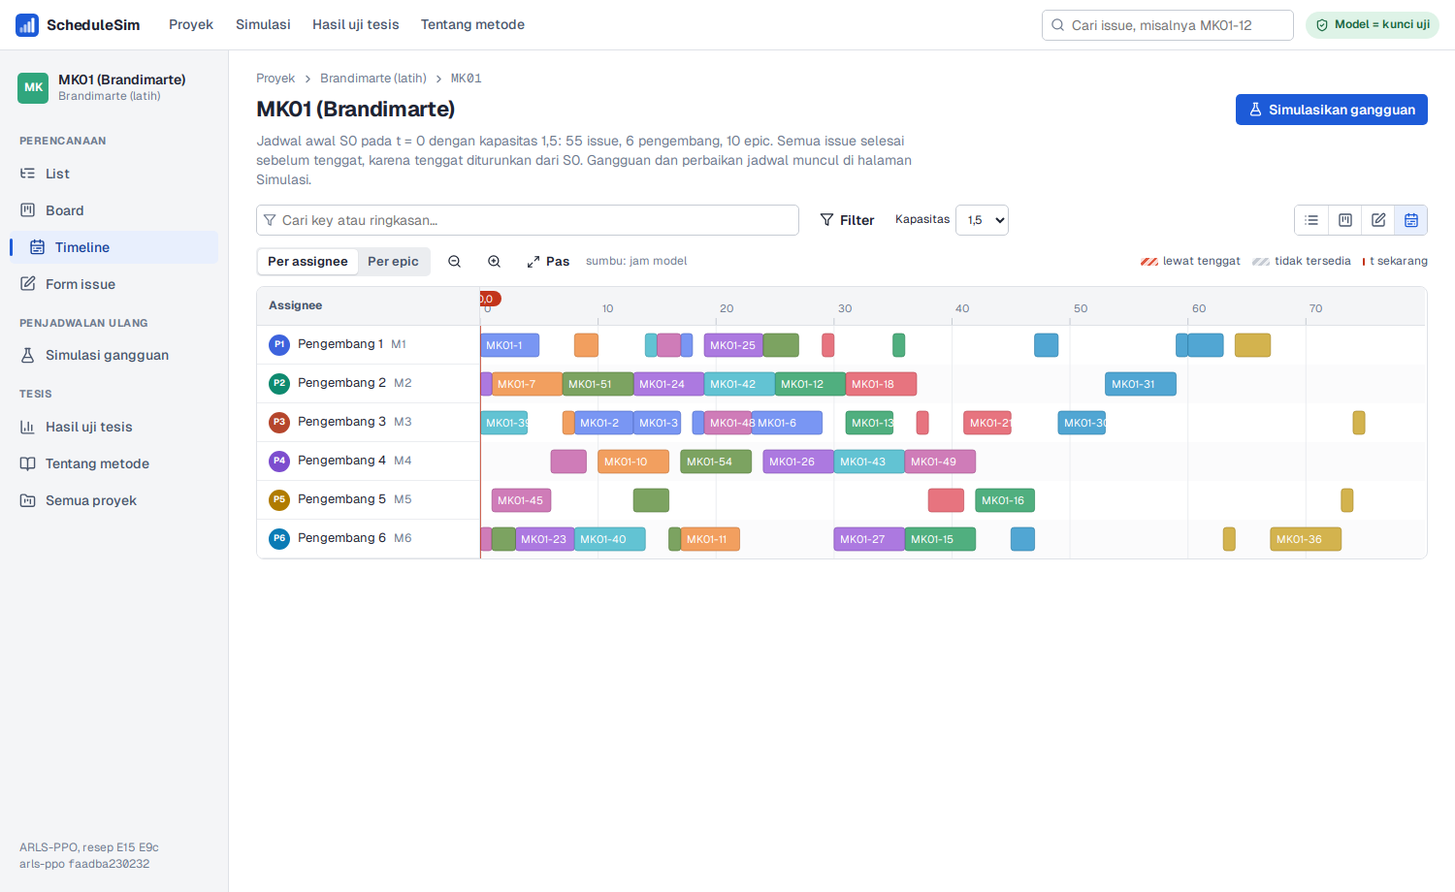
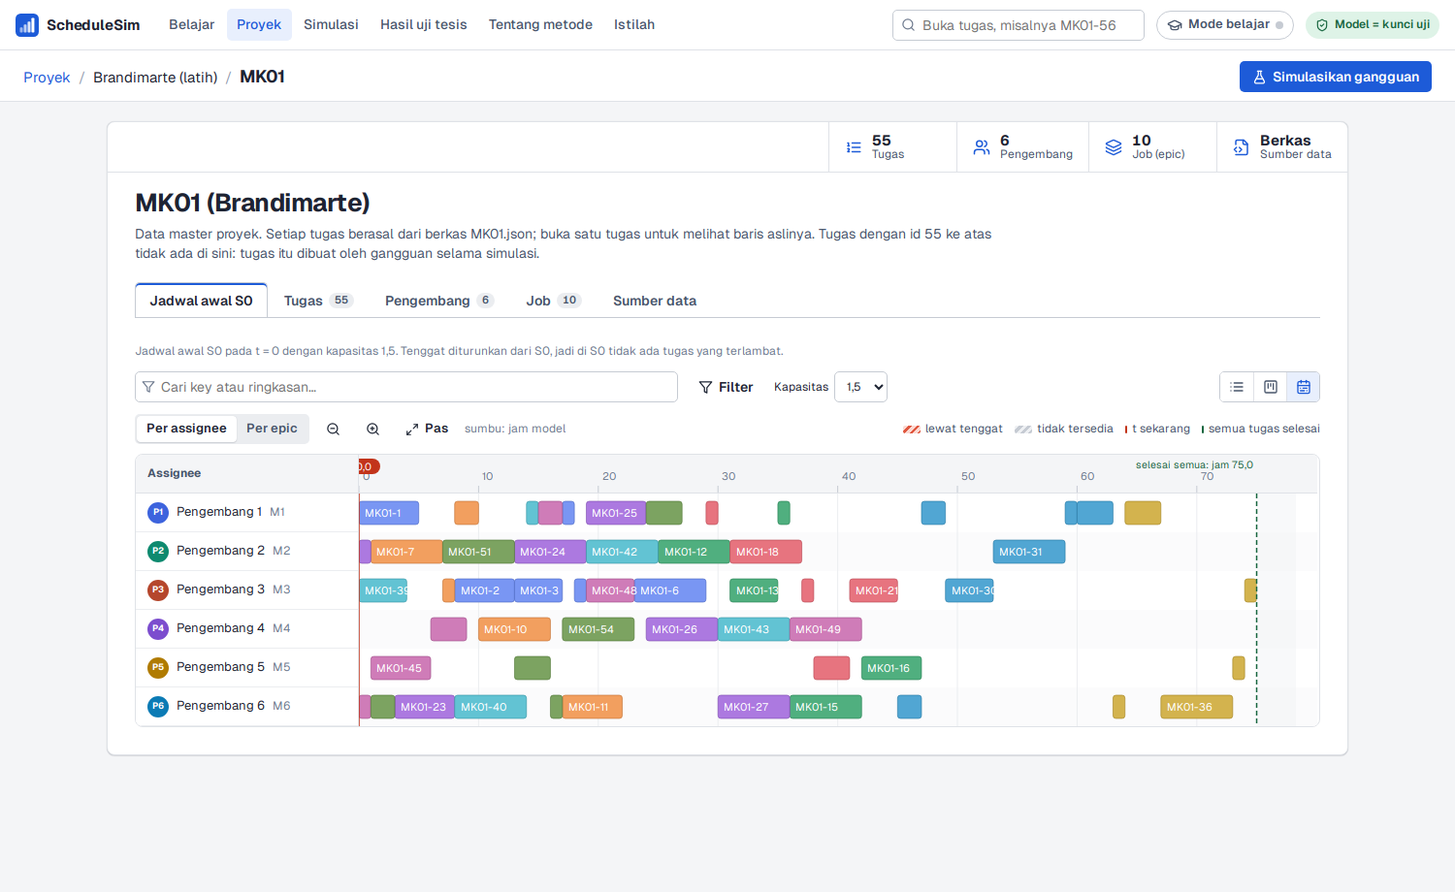
Seam F4 and the adapted end-to-end tests; README and screenshots for the new records
F4 (Playwright): a record URL reloads to the same record; the pager stops at event 16 and
leads to Akhir episode, whose J equals the API; the breadcrumb climbs back with the same
settings; MK01-56 opens as task id 55 made by a disruption of event 1; MK01-1 shows the
options of jobs[0][0] read from MK01.json by the test itself; the source of E lists the 55
tasks and its total equals E.sum of the API. F1-F3 follow the new routes without new seams.

Claude-Session: https://claude.ai/code/session_01JHfn4SgrSrMmnqLfUE1H3U

diff --git a/e2e/tests/log.spec.ts b/e2e/tests/log.spec.ts
@@ -1,22 +1,17 @@
 // Seam F2: the number log on screen shows the numbers of the API, the worked example of thesis
 // section 4.6 can be followed in it, and learning mode adds tooltips and a tour only when on.
 import { expect, test } from "@playwright/test";
+import { MK01, openRun, PPO } from "./helpers";
 
 const fmt = (v: number, d = 4) =>
   new Intl.NumberFormat("id-ID", { minimumFractionDigits: d, maximumFractionDigits: d }).format(v);
 
-async function runMk01(page: import("@playwright/test").Page) {
-  await page.goto("/simulasi?project=MK01&cap=1.5");
-  const started = page.waitForResponse((r) => r.url().endsWith("/api/runs") && r.request().method() === "POST");
-  await page.getByRole("button", { name: "Jalankan" }).click();
-  const { run_id } = await (await started).json();
-  await expect(page.locator(".ev").first()).toBeVisible({ timeout: 180_000 });
-  return run_id as string;
+async function runMk01(page: import("@playwright/test").Page, extra = "") {
+  return openRun(page, `/simulasi/run/${PPO}/kejadian/1?${MK01}${extra}`);
 }
 
 test("the number log shows the worked example of Bab IV with the numbers of the API", async ({ page, request }) => {
-  const runId = await runMk01(page);
-  await page.getByRole("tab", { name: "Log hitung" }).click();
+  const runId = await runMk01(page, "&tab=log");
   const ev = await (await request.get(`/api/runs/${runId}/ppo_bc_ppo_g@0/log/0`)).json();
   const log = page.locator(".nlog");
   await expect(log).toContainText("Kejadian 1 dari 16");
@@ -38,34 +33,38 @@ test("the number log shows the worked example of Bab IV with the numbers of the 
 });
 
 test("learning mode adds tooltips and a tour only when it is on", async ({ page }) => {
-  await runMk01(page);
+  await page.goto(`/simulasi/baru?${MK01}`);
+  await expect(page.locator(".o-sheet")).toBeVisible();
   await expect(page.locator(".info__btn")).toHaveCount(0);
   await page.getByRole("button", { name: /Mode belajar/ }).click();
   await expect(page.locator(".info__btn").first()).toBeVisible();
   await page.getByRole("button", { name: "Penjelasan: Change penalty λ" }).click();
   await expect(page.locator(".info__pop")).toContainText("Subbab 3.3.5");
+  await runMk01(page);
   await page.getByRole("button", { name: "Tur halaman ini" }).click();
-  await expect(page.locator(".tour__card")).toContainText("1. Atur episode");
+  await expect(page.locator(".tour__card")).toContainText("1. Di mana saya?");
   await page.locator(".tour__card").getByRole("button", { name: "Lanjut" }).click();
-  await expect(page.locator(".tour__card")).toContainText("2. Jalankan");
+  await expect(page.locator(".tour__card")).toContainText("2. Pindah kejadian");
   await page.locator(".tour__card").getByRole("button", { name: "Lewati tur" }).click();
   await expect(page.locator(".tour__card")).toHaveCount(0);
   await page.getByRole("button", { name: /Mode belajar/ }).click();
   await expect(page.locator(".info__btn")).toHaveCount(0);
 });
 
-test("choosing a method shows its schedule at the chosen event, step by step", async ({ page, request }) => {
+test("the same event opens for another method, with its own schedule and numbers", async ({ page, request }) => {
   const runId = await runMk01(page);
-  await page.locator(".ev").nth(1).click();
-  await page.locator(".mchip", { hasText: "Fixed-L3 + guard" }).click();
-  await expect(page.locator(".mchip.on")).toContainText("Fixed-L3 + guard");
-  await expect(page.locator(".decision .muted").first()).toContainText("Fixed-L3 + guard");
+  await page.getByRole("link", { name: "Kejadian berikutnya" }).click();
+  await expect(page.locator(".o-sheet__title")).toContainText("Kejadian 2");
+  await page.getByRole("link", { name: "Bandingkan metode lain" }).click();
+  await page.locator(".o-related tbody tr", { hasText: "Fixed-L3 + guard" }).click();
+  await expect(page).toHaveURL(/\/simulasi\/run\/fix3_g\/kejadian\/2/);
+  await expect(page.locator(".o-crumbs")).toContainText("Fixed-L3 + guard");
   const frame = await (await request.get(`/api/runs/${runId}/fix3_g/frames/1/after`)).json();
-  await expect(page.locator(".decision .kv")).toContainText(
+  await expect(page.locator(".o-field", { hasText: "J = Tard/E" })).toContainText(
     new Intl.NumberFormat("id-ID", { minimumFractionDigits: 3, maximumFractionDigits: 3 }).format(frame.event.J_after_batch));
-  await page.locator(".scene__step", { hasText: "Gangguan masuk" }).click();
-  await expect(page.locator(".scene__caption")).toContainText("belum diperbaiki");
-  await page.locator(".mchip", { hasText: "AOR (tanpa perbaikan)" }).click();
-  await page.locator(".scene__step", { hasText: "Sesudah perbaikan" }).click();
-  await expect(page.locator(".scene__caption")).toContainText("tidak pernah memperbaiki");
+  await page.locator(".o-status__step", { hasText: "Gangguan masuk" }).click();
+  await expect(page.locator(".o-step__text")).toContainText("belum diperbaiki");
+  await page.locator(".o-related tbody tr", { hasText: "AOR (tanpa perbaikan)" }).click();
+  await expect(page.locator(".o-crumbs")).toContainText("AOR (tanpa perbaikan)");
+  await expect(page.locator(".o-status__step.on")).toHaveText("② Gangguan masuk");
 });

diff --git a/e2e/tests/odoo.spec.ts b/e2e/tests/odoo.spec.ts
@@ -1,0 +1,78 @@
+// Seam F4: the simulation as records in the manner of Odoo. A URL always brings back the same
+// record, the pager ends in an "Akhir episode" record instead of an empty screen, the breadcrumb
+// climbs back without losing the settings, and a number can be followed down to the raw file.
+import { readFileSync } from "node:fs";
+import { expect, test } from "@playwright/test";
+import { fmt, MK01, openRun, PPO } from "./helpers";
+
+const RAW = "../vendor/arls-ppo/exp1/dfjsp-ppo-repair/data/raw/MK01.json";
+
+test("a record URL reloads to the same record", async ({ page }) => {
+  await openRun(page, `/simulasi/run/${PPO}/kejadian/3?${MK01}&langkah=2`);
+  await expect(page.locator(".o-sheet__title")).toContainText("Kejadian 3");
+  await expect(page.locator(".o-status__step.on")).toHaveText("② Gangguan masuk");
+  await page.reload();
+  await expect(page.locator(".o-sheet__title")).toContainText("Kejadian 3", { timeout: 240_000 });
+  await expect(page.locator(".o-status__step.on")).toHaveText("② Gangguan masuk");
+});
+
+test("the pager ends at the last event, which leads to Akhir episode", async ({ page, request }) => {
+  const runId = await openRun(page, `/simulasi/run/${PPO}/kejadian/15?${MK01}`);
+  const events = await (await request.get(`/api/runs/${runId}/ppo_bc_ppo_g@0/events`)).json();
+  expect(events.length).toBe(16);
+  await page.getByRole("link", { name: "Kejadian berikutnya" }).click();
+  await expect(page.locator(".o-sheet__title")).toContainText("Kejadian 16");
+  await expect(page.locator(".o-pager__btn.is-off")).toHaveAttribute("aria-label", "Kejadian berikutnya");
+  await page.getByRole("link", { name: /Akhir episode/ }).first().click();
+  await expect(page.locator(".o-crumb--last")).toHaveText("Akhir episode");
+  await expect(page.locator(".gbar").first()).toBeVisible({ timeout: 60_000 });
+  const run = await (await request.get(`/api/runs/${runId}`)).json();
+  const arls = run.results.find((r: { key: string }) => r.key === "ppo_bc_ppo_g@0");
+  await expect(page.locator(".o-field", { hasText: "J episode" })).toContainText(fmt(arls.J));
+});
+
+test("the breadcrumb climbs back up without losing the settings", async ({ page }) => {
+  await openRun(page, `/simulasi/run/${PPO}/akhir?${MK01}`);
+  await page.locator(".o-crumbs").getByRole("link", { name: "ARLS-PPO" }).click();
+  await expect(page.locator(".o-sheet__title")).toHaveText("ARLS-PPO");
+  await expect(page.locator(".o-list tbody tr")).toHaveCount(17);              // 16 events + Akhir episode
+  await page.locator(".o-crumbs").getByRole("link", { name: /MK01 · 1,5/ }).click();
+  await expect(page).toHaveURL(/\/simulasi\/run\?/);
+  const got = new URL(page.url()).searchParams;
+  for (const [k, v] of new URLSearchParams(MK01)) expect(got.get(k)).toBe(v);
+  await expect(page.locator(".o-list tbody tr", { hasText: "Fixed-L3 + guard" })).toBeVisible();
+});
+
+test("MK01-56 is task id 55, made by a disruption of event 1", async ({ page }) => {
+  await openRun(page, `/simulasi/run/${PPO}/kejadian/1?${MK01}&langkah=3`);
+  await page.locator(".o-look").getByRole("link", { name: "MK01-56" }).click();
+  await expect(page.locator(".o-sheet__title")).toHaveText("MK01-56", { timeout: 60_000 });
+  await expect(page.locator(".o-field", { hasText: "id di kode dan naskah" })).toContainText("55");
+  await expect(page.locator(".o-look")).toContainText("id 55");
+  await expect(page.locator(".o-look")).toContainText("dibuat oleh gangguan pada kejadian 1");
+});
+
+test("MK01-1 shows the options written in the raw file at jobs[0][0]", async ({ page }) => {
+  const raw = JSON.parse(readFileSync(RAW, "utf-8"));
+  await page.goto("/proyek/MK01/tugas/0");
+  const box = page.locator(".o-raw");
+  await expect(box).toContainText("jobs[0][0]", { timeout: 120_000 });
+  for (const o of raw.jobs[0][0]) await expect(box).toContainText(`"machine": ${o.machine}, "processing": ${o.processing}`);
+  await expect(page.locator(".o-field", { hasText: "id di kode dan naskah" })).toContainText("0");
+});
+
+test("the source of E lists the 55 tasks it adds up", async ({ page, request }) => {
+  const runId = await openRun(page, `/simulasi/run?${MK01}&tab=input`);
+  const ep = await (await request.get(`/api/runs/${runId}/ppo_bc_ppo_g@0/log`)).json();
+  const E = ep.input.E;
+  expect(E.n).toBe(55);
+  const rows = ep.input.tasks.reduce((s: number, r: { upaya: number }) => s + r.upaya, 0);
+  expect(Math.abs(rows - E.sum)).toBeLessThan(1e-9);
+  expect(Math.abs(E.sum / E.n - E.value)).toBeLessThan(1e-12);
+  await page.locator(".o-field", { hasText: "E (rata-rata upaya)" }).locator(".o-src").click();
+  const sheet = page.getByRole("dialog");
+  await expect(sheet).toContainText(fmt(E.value, 4));
+  await expect(sheet.locator("tbody tr")).toHaveCount(55);
+  await expect(sheet.locator("tfoot")).toContainText(fmt(E.sum, 4));
+  await expect(sheet).toContainText(`${fmt(E.sum, 4)} / 55`);
+});

diff --git a/e2e/tests/schedulesim.spec.ts b/e2e/tests/schedulesim.spec.ts
@@ -1,43 +1,38 @@
-// Seam F1: the four views open, a simulation steps through events, and the numbers on screen
-// are the numbers of the API (which come from arls-ppo's cek_episode.run).
+// Seam F1: a project opens in its views, a run shows the numbers of the API (which come from
+// arls-ppo's cek_episode.run), and test data cannot be opened.
 import { expect, test } from "@playwright/test";
+import { fmt, MK01, openRun, PPO } from "./helpers";
 
-const fmt = (v: number, d = 3) =>
-  new Intl.NumberFormat("id-ID", { minimumFractionDigits: d, maximumFractionDigits: d }).format(v);
-
-test("a project opens in list, board, form and timeline views", async ({ page }) => {
+test("a project opens in list, board and timeline views, and a task opens as its own record", async ({ page }) => {
   await page.goto("/proyek/MK01?view=list");
-  await expect(page.locator("table.grid tbody tr.row")).toHaveCount(55);
+  await expect(page.locator("table.grid tbody tr.row")).toHaveCount(55, { timeout: 120_000 });
   await page.getByRole("tab", { name: "Board (kanban)" }).click();
   await expect(page.locator(".card").first()).toBeVisible();
   await expect(page.locator(".lane__head")).toHaveCount(6);
   await page.getByRole("tab", { name: "Timeline (Gantt)" }).click();
   await expect(page.locator(".gbar").first()).toBeVisible();
-  await page.getByRole("tab", { name: "Form" }).click();
-  await expect(page.locator(".sheet__title")).toBeVisible();
-  await expect(page.locator(".statusbar")).toBeVisible();
+  await page.locator(".gbar").first().click();
+  await expect(page).toHaveURL(/\/proyek\/MK01\/tugas\/\d+$/);
+  await expect(page.locator(".o-raw")).toBeVisible();
 });
 
-test("a simulation shows the same numbers as the API", async ({ page, request }) => {
-  await page.goto("/simulasi?project=MK01");
-  const started = page.waitForResponse((r) => r.url().endsWith("/api/runs") && r.request().method() === "POST");
-  await page.getByRole("button", { name: "Jalankan" }).click();
-  const { run_id } = await (await started).json();
-  await expect(page.locator(".ev").first()).toBeVisible({ timeout: 180_000 });
-
-  const run = await (await request.get(`/api/runs/${run_id}`)).json();
+test("a run shows the same numbers as the API", async ({ page, request }) => {
+  const runId = await openRun(page, `/simulasi/run?${MK01}`);
+  const run = await (await request.get(`/api/runs/${runId}`)).json();
   const arls = run.results.find((r: { key: string }) => r.key === "ppo_bc_ppo_g@0");
-  const row = page.locator("tr.row", { hasText: "ARLS-PPO" }).first();
+  const row = page.locator(".o-list tbody tr", { hasText: "ARLS-PPO" }).first();
   await expect(row).toContainText(fmt(arls.J));
   await expect(row).toContainText(fmt(arls.tard));
   await expect(row).toContainText(String(arls.changes));
+  await row.click();
 
-  const events = await (await request.get(`/api/runs/${run_id}/ppo_bc_ppo_g@0/events`)).json();
-  await expect(page.locator(".ev")).toHaveCount(events.length);
-  await page.locator(".ev").nth(2).click();
-  await expect(page.locator(".decision h3")).toHaveText(`Kejadian 3 dari ${events.length}`);
-  const frame = await (await request.get(`/api/runs/${run_id}/ppo_bc_ppo_g@0/frames/2/after`)).json();
-  await expect(page.locator(".decision .kv")).toContainText(fmt(frame.event.J_after_batch));
+  const events = await (await request.get(`/api/runs/${runId}/ppo_bc_ppo_g@0/events`)).json();
+  await expect(page.locator(".o-list tbody tr")).toHaveCount(events.length + 1);
+  await page.locator(".o-list tbody tr").nth(2).click();
+  await expect(page).toHaveURL(new RegExp(`/simulasi/run/${PPO}/kejadian/3`));
+  await expect(page.locator(".o-sheet__title")).toContainText("Kejadian 3");
+  const frame = await (await request.get(`/api/runs/${runId}/ppo_bc_ppo_g@0/frames/2/after`)).json();
+  await expect(page.locator(".o-field", { hasText: "J = Tard/E" })).toContainText(fmt(frame.event.J_after_batch));
 });
 
 test("test data cannot be opened", async ({ page }) => {

diff --git a/e2e/tests/belajar.spec.ts b/e2e/tests/belajar.spec.ts
@@ -1,6 +1,7 @@
 // Seam F3: the lessons can be followed step by step, the quiz answers without giving the right
 // answer away, a finished lesson is marked, and playback in Simulasi goes step by step.
 import { expect, test } from "@playwright/test";
+import { KOPI, openRun, PPO } from "./helpers";
 
 test("a lesson is followed step by step and its quiz checks understanding", async ({ page }) => {
   await page.goto("/belajar");
@@ -33,14 +34,12 @@ test("the numbers of a lesson come from the example run", async ({ page }) => {
 });
 
 test("playback in Simulasi moves one step at a time and says what to look at", async ({ page }) => {
-  await page.goto("/simulasi?project=KOPI&cap=1.5");
-  await page.getByRole("button", { name: "Jalankan" }).click();
-  await expect(page.locator(".scene")).toBeVisible({ timeout: 180_000 });
+  await openRun(page, `/simulasi/run/${PPO}/kejadian/1?${KOPI}&langkah=1`);
   await page.getByRole("combobox", { name: "Kecepatan putar" }).selectOption("700");
-  await page.getByRole("button", { name: "Putar langkah demi langkah" }).click();
-  await expect(page.locator(".scene__step.on")).toContainText("Sebelum gangguan");
-  await expect(page.locator(".scene__step.on")).toContainText("Gangguan masuk", { timeout: 5_000 });
-  await expect(page.locator(".scene__look")).toContainText("tugas yang terkena gangguan");
-  await expect(page.locator(".scene__step.on")).toContainText("Sesudah perbaikan", { timeout: 5_000 });
+  await expect(page.locator(".o-status__step.on")).toHaveText("① Sebelum gangguan");
+  await page.getByRole("button", { name: "Putar" }).click();
+  await expect(page.locator(".o-status__step.on")).toHaveText("② Gangguan masuk", { timeout: 5_000 });
+  await expect(page.locator(".o-look").first()).toContainText("tugas yang terkena gangguan");
+  await expect(page.locator(".o-status__step.on")).toHaveText("③ Sesudah perbaikan", { timeout: 5_000 });
   await page.getByRole("button", { name: "Jeda" }).click();
 });

diff --git a/e2e/tests/helpers.ts b/e2e/tests/helpers.ts
@@ -1,0 +1,17 @@
+import { expect, type Page } from "@playwright/test";
+
+export const fmt = (v: number, d = 3) =>
+  new Intl.NumberFormat("id-ID", { minimumFractionDigits: d, maximumFractionDigits: d }).format(v);
+
+export const MK01 = "p=MK01&cap=1.5&int=0.15&seed=5000&lam=3&m=ppo_bc_ppo_g@0,fix3_g,acak_g,aor";
+export const KOPI = "p=KOPI&cap=1.5&int=0.15&seed=5000&lam=3&m=ppo_bc_ppo_g@0,aor,seq,fix3_g,acak_g";
+export const PPO = "ppo_bc_ppo_g%400";
+
+/** Opens a page of a run and returns the run id the page started (or reused from the cache). */
+export async function openRun(page: Page, url: string): Promise<string> {
+  const started = page.waitForResponse((r) => r.url().endsWith("/api/runs") && r.request().method() === "POST");
+  await page.goto(url);
+  const { run_id } = await (await started).json();
+  await expect(page.locator(".o-sheet").first()).toBeVisible({ timeout: 240_000 });
+  return run_id as string;
+}

diff --git a/README.md b/README.md
@@ -11,7 +11,7 @@ number comes from the thesis code and the locked models in
 
 Coba langsung di **https://sch.stevewithcode.net**.
 
-![Simulasi: timeline, strip kejadian, dan panel keputusan](docs/tangkapan/06_sim_gantt.png)
+![Form kejadian: breadcrumb, pager, tiga langkah, angka dengan asalnya, dan jadwal](docs/tangkapan/06_sim_event.png)
 
 ## Selaras dengan tesis
 
@@ -77,22 +77,40 @@ ScheduleSim tidak punya logika penjadwalan sendiri. Backend memanggil `arls_ppo`
   Setiap pelajaran ditutup dengan soal yang memberi umpan balik tanpa langsung membuka jawaban. Semua contoh memakai
   proyek fiktif Kedai kopi yang dijalankan dengan kode penelitian, jadi angkanya diambil dari run itu, bukan diketik
   tangan. Kemajuan belajar disimpan di browser.
-- **Simulasi gangguan.** Tombol putar menjalankan episode langkah demi langkah (① → ② → ③ untuk setiap
-  kejadian). Kecepatannya bisa dipilih dari sangat pelan sampai cepat. Kotak *Perhatikan* menandai tugas yang
-  terkena gangguan di langkah ② dan tugas yang diubah di langkah ③. Di atas jadwal ada panel yang menyebut apa yang sedang tampil: kejadian mana,
-  jadwal metode mana (tombol per metode berisi tingkat yang dipakai, U, dan Tard/E pada kejadian itu),
-  dan langkah mana: ① sebelum gangguan, ② gangguan masuk (tugas yang terkena digeser seperlunya, belum
-  diperbaiki; di naskah disebut tingkat 0 atau AOR), ③ sesudah perbaikan oleh metode itu. Metode
-  pembanding AOR ditulis "AOR (tanpa perbaikan)" karena ia berhenti di langkah ②. Cara pakai: pilih
-  proyek, kapasitas, intensitas, seed, λ, dan metode, lalu tekan Jalankan. Strip kejadian menampilkan
-  tingkat perbaikan yang dipakai metode terpilih (glyph tangga L0-L3). Panel keputusan menampilkan:
-  - A_j;
-  - peluang tiap tingkat dari kebijakan;
-  - J tiap tingkat;
-  - putusan guard;
-  - 38 angka keadaan;
-  - perubahan yang dihitung.
-- **Log hitung.** Tab di samping panel keputusan menguraikan dari mana setiap angka berasal:
+- **Simulasi gangguan, dengan pola Odoo.** Setiap layar memuat satu rekaman, dan alamatnya menyimpan
+  semua pengaturan. Muat ulang, tombol Back, dan tautan yang dibagikan selalu kembali ke rekaman yang sama.
+  Bila server sudah lupa run itu, misalnya sesudah restart, halaman mengirim pengaturan yang sama lagi dan
+  hasilnya langsung diambil dari cache. Rekaman bertingkat:
+  - **Run**: proyek, kapasitas, intensitas, seed, dan λ, dengan tab Metode (J episode semua metode), tab
+    Gangguan (sama untuk semua metode), dan tab Input episode (S0, tenggat, E, kapasitas);
+  - **Metode dalam run**: daftar kejadian satu per baris, ditutup baris *Akhir episode*, dan semua perubahan;
+  - **Kejadian**: pager `3 / 16` yang hanya memindah kejadian metode itu. Statusbar ① sebelum gangguan →
+    ② gangguan masuk (belum diperbaiki; di naskah tingkat 0 atau AOR) → ③ sesudah perbaikan. Tombol
+    *Bandingkan metode lain* membuka kejadian yang sama untuk metode lain. Tab yang tersedia: Jadwal,
+    Gangguan, Keputusan, Perubahan, dan Log hitung. Tombol putar berjalan ① → ② → ③ dengan kecepatan yang
+    bisa dipilih, dan kotak *Perhatikan* menandai tugas yang perlu dilihat;
+  - **Akhir episode**: jadwal sesudah kejadian terakhir sampai semua tugas selesai (garis hijau di
+    Timeline), Tard/E akhir, ΣU, dan J episode.
+
+  Breadcrumb `Simulasi / run / metode / kejadian` selalu bisa diklik untuk naik.
+- **Asal angka (↗).** Tanda ↗ di samping angka membuka lembar samping yang memuat:
+  - rumusnya;
+  - angka yang masuk, masing-masing bisa dibuka lebih dalam;
+  - daftar yang dijumlah, dengan baris Σ di bawahnya, misalnya 55 tugas untuk E;
+  - kode yang menghitungnya.
+
+  Semua angka di lembar itu dibaca dari log angka arls-ppo dan tidak dihitung ulang di browser.
+- **Data master sampai berkas mentah.** Setiap tugas punya form sendiri. Isinya:
+  - nomor di layar (MK01-56) dan id di kode dan naskah (55);
+  - job dan urutan operasinya;
+  - pengembang yang layak beserta upayanya;
+  - dependensinya;
+  - letaknya di berkas mentah, misalnya `data/raw/MK01.json → jobs[0][0]` beserta isinya apa adanya.
+
+  Tugas tidak terencana menunjuk gangguan yang membuatnya. Proyek, pengembang, dan job juga punya form
+  sendiri. Endpoint `GET /api/projects/{key}/master` membaca berkas itu lewat loader yang sama dengan
+  episode tesis.
+- **Log hitung.** Tab di form kejadian yang menguraikan dari mana setiap angka berasal:
   - *Input*: kapasitas, S0 (dibangun ulang dari berkas instans dan dicek sama), tenggat
     d_i = C_i + 0,5 × (C_i − S_i), E sebagai jumlah dibagi banyak tugas, seed gangguan, parameter TAWOS,
     dan daftar gangguan yang ditarik ulang dari seed lalu dicek sama;
@@ -108,8 +126,8 @@ ScheduleSim tidak punya logika penjadwalan sendiri. Backend memanggil `arls_ppo`
   membandingkan semua angkanya; hanya waktu (ms) yang boleh berbeda. Log bisa disalin sebagai teks
   atau diunduh sebagai JSON.
 - **Mode belajar.** Tombol di bilah atas, mati secara bawaan. Bila dinyalakan, tanda ⓘ di samping
-  istilah dan angka membuka penjelasan singkat beserta rumus dan subbab naskahnya, dan halaman
-  Simulasi punya tur sembilan langkah. Halaman *Istilah* memuat semua penjelasan itu.
+  istilah dan angka membuka penjelasan singkat beserta rumus dan subbab naskahnya, dan form
+  kejadian punya tur tujuh langkah. Halaman *Istilah* memuat semua penjelasan itu.
 - **Manual.** Ada dua mode, dan keduanya dibandingkan dengan ARLS-PPO dan AOR pada gangguan yang sama:
   - *pilih tingkat*: Anda memilih L0-L3 untuk setiap gangguan;
   - *geser kartu*: Anda menggeser kartu di Board. Setiap geseran diperiksa dengan aturan
@@ -125,15 +143,17 @@ ScheduleSim tidak punya logika penjadwalan sendiri. Backend memanggil `arls_ppo`
   - indikator I-1 dan I-2;
   - tabel hash model.
 
-| Board | Form | Hasil uji |
+| Run | Metode dalam run | Bandingkan metode lain |
 |---|---|---|
-| ![Board](docs/tangkapan/02_board.png) | ![Form](docs/tangkapan/05_form.png) | ![Hasil uji](docs/tangkapan/08_results.png) |
+| ![Run](docs/tangkapan/11_run.png) | ![Metode dalam run](docs/tangkapan/12_method_run.png) | ![Bandingkan](docs/tangkapan/13_banding.png) |
 
-| Log hitung | J setiap tingkat dan LIS | Tur Mode belajar |
+| Asal angka | Akhir episode | Tugas MK01-56 = id 55 |
 |---|---|---|
-| ![Log hitung](docs/tangkapan/10_log_proses.png) | ![J setiap tingkat](docs/tangkapan/11_log_tingkat.png) | ![Tur](docs/tangkapan/12_tur.png) |
+| ![Asal angka](docs/tangkapan/16_asal_angka.png) | ![Akhir episode](docs/tangkapan/17_akhir.png) | ![Tugas 55](docs/tangkapan/18_tugas_55.png) |
 
-![Pilih metode dan langkah pada satu kejadian](docs/tangkapan/13_pilih_metode.png)
+| Form tugas dan berkas mentah | Log hitung | Hasil uji |
+|---|---|---|
+| ![Tugas](docs/tangkapan/05_task.png) | ![Log hitung](docs/tangkapan/10_log_proses.png) | ![Hasil uji](docs/tangkapan/08_results.png) |
 
 | Belajar dari nol | Satu langkah pelajaran |
 |---|---|
@@ -178,7 +198,7 @@ Pengaturan lewat variabel lingkungan:
 cd backend && .venv/bin/python -m pytest          # proyeksi, API, jejak episode nyata
 cd frontend && npm run dev                        # Vite di :5173, proxy /api ke :8000
 cd frontend && npm test                           # filter, isi pelajaran terhadap data run contoh
-cd e2e && npx playwright test                     # empat view, simulasi, log hitung, Mode belajar
+cd e2e && npx playwright test                     # view proyek, rekaman simulasi, asal angka, log hitung, belajar
 cd e2e && SCHEDULESIM_PORT=8010 npx playwright test  # terhadap server kedua di port lain
 ```
 
@@ -188,7 +208,7 @@ Struktur:
 |---|---|
 | `vendor/arls-ppo` | submodule kode, model, dan hasil tesis (dikunci per commit) |
 | `backend/schedulesim` | `projection` (tesis ke konsep PM), `runner` (proses pekerja dan cache), `api` (FastAPI), `catalog`, `store` |
-| `frontend/src` | React + TypeScript: `components/views` (List, Board, Form, Gantt), `pages` (Simulasi, Hasil uji, Metode, editor proyek) |
+| `frontend/src` | React + TypeScript: `odoo` (breadcrumb, pager, statusbar, smart button, notebook, Asal angka), `pages/sim` (run, metode, kejadian, akhir), `pages/master` (proyek, tugas, pengembang, job), `components/views` (List, Board, Gantt) |
 | `e2e` | tes Playwright dan skrip tangkapan layar |
 
 Tampilan bergaya alat manajemen proyek pada umumnya. Komponen, ikon, warna, dan nama ScheduleSim
